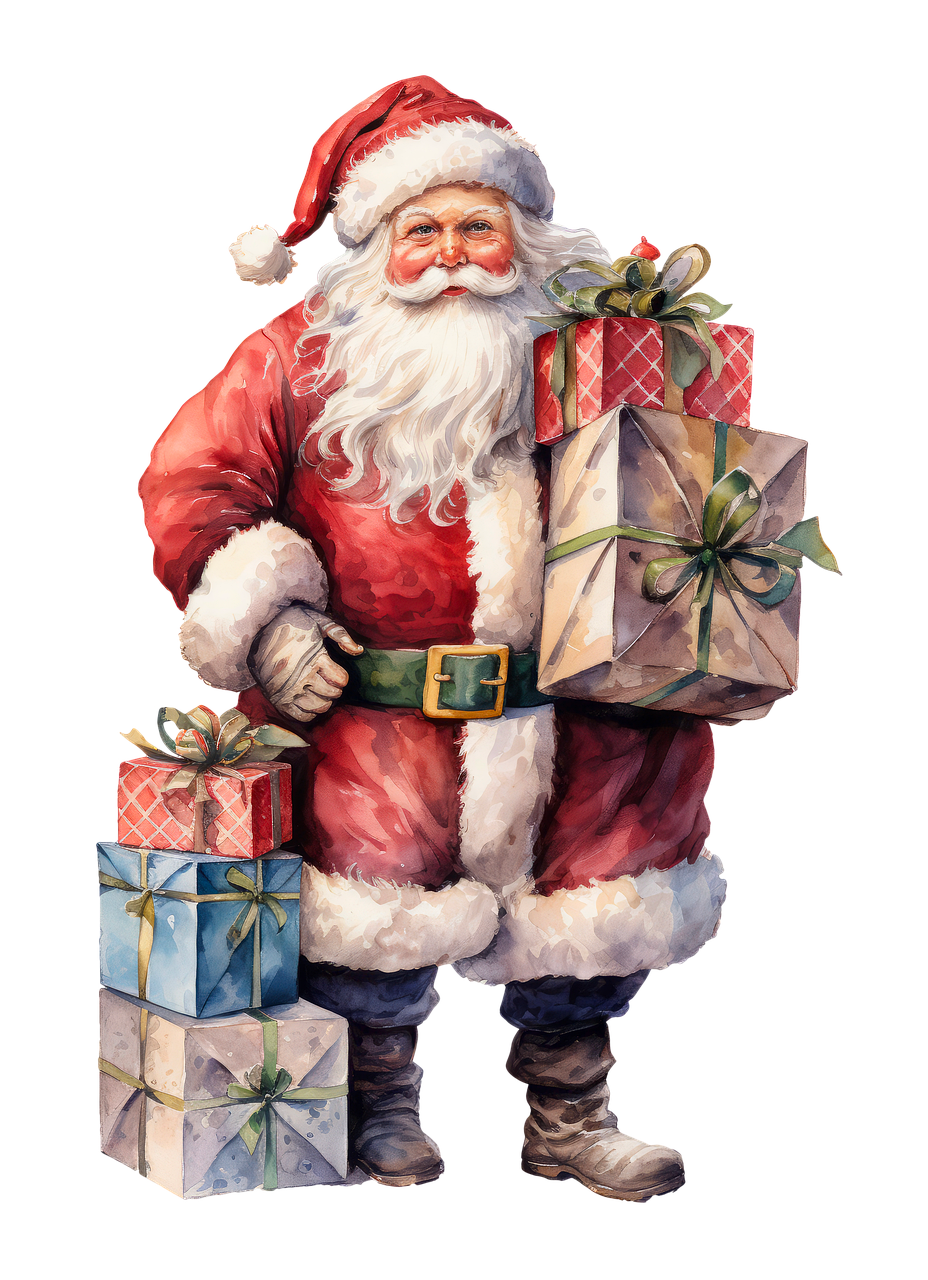
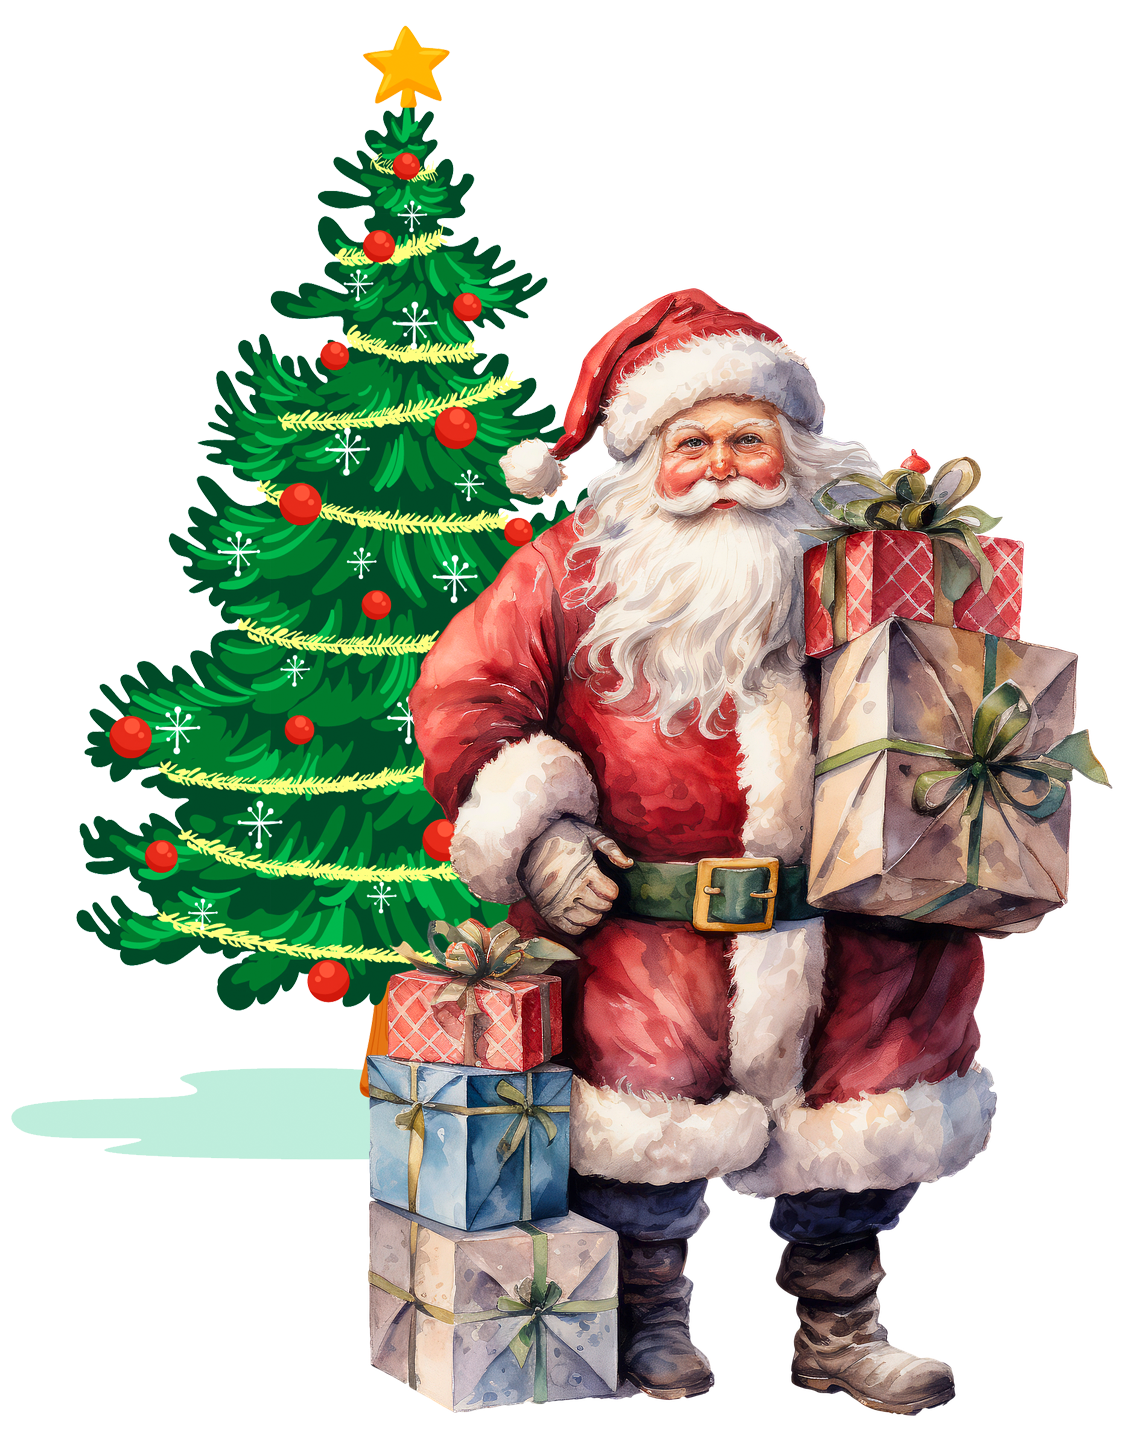
fix: css,santa image,be a santa text,colour-pallet, and scroll bar

diff --git a/index.html b/index.html
@@ -120,18 +120,17 @@
 
                 <!-- Image Column: Santa and Christmas Tree -->
                 <div class="col-md-5 d-none d-md-flex flex-column align-items-center justify-content-center">
-                    <img src="assets/images/tree.png" alt="tree-image" class="img-fluid tree-image">
-                    <img src="assets/images/santa.png" alt="Santa" class="img-fluid">
+                    <!-- <img src="assets/images/tree.png" alt="tree-image" class="img-fluid tree-image"> -->
+                    <img src="assets/images/santa.png" alt="Santa" class="img-fluid santa-image">
                 </div>
 
                 <!-- Content Column: Contains the pages for the app -->
                 <div class="col-12 col-md-7 align-items-center min-vh-100">
                     <div id="landing-page"
                         class="d-flex flex-column justify-content-center align-items-center vertical-center-container">
-                        <h1><i class="fas fa-gift"></i></h1>
-                        <h1>Be a SANTA</h1>
-                        <h5>Want to Gift Your Loved Ones ?</h5>
-                        <button id="start-gifting-button" class="button-21" role="button">Gift</button>
+                        <img src="assets/images/be-a-santa.png" alt="Be-a-Santa" class="img-fluid be-a-santa-image">
+                        <h5>Want to Gift Someone ?</h5>
+                        <button id="start-gifting-button" class="button-21 margin-15" role="button">Gift</button>
                     </div>
 
                     <!-- Page 1 -->
@@ -226,51 +225,49 @@
                     <!-- Page 3 -->
                     <div id="page3"
                         class="d-flex flex-column justify-content-center align-items-center vertical-center-container">
-                        <h2>Thank you for sending us your wonderful gift. Here is what we would like to give you in
-                            return!
-                        </h2>
+                        <h5>Thank you for sending us your wonderful gift.</h5>
+                        <h2>Here is what we would like to give you in RETURN!</h2>
                         <p>Click the elf to unwrap your present</p>
                         <div class="row justify-content-center">
                             <!-- Elf Image -->
                             <div class="col-md-6 col-sm-12 text-center">
                                 <div class="selection-option" data-value="elf">
-                                    <img src="assets/images/elf.png" alt="Elf" class="img-fluid img-option">
+                                    <img src="assets/images/elf.png" alt="Elf" class="img-fluid">
                                 </div>
                             </div>
                             <!-- Gift Image -->
                             <div class="col-md-6 col-sm-12 text-center">
                                 <div class="selection-option" data-value="gift">
-                                    <img src="assets/images/gift.png" alt="Gift" class="img-fluid img-option">
+                                    <img src="assets/images/gift.png" alt="Gift" class="img-fluid">
                                 </div>
                             </div>
                         </div>
                         <!--User Info Form-->
                         <form id="contact-form">
                             <div class="form-group">
-                                <label for="name">Name:</label>
-                                <input type="text" class="form-control" id="name" name="user_name" required>
+                                <label for="name" class="margin-15">Name:</label>
+                                <input type="text" class="form-control margin-15" id="name" name="user_name" required>
                             </div>
                             <div class="form-group">
-                                <label for="email">Email:</label>
-                                <input type="email" class="form-control" id="email" name="user_email" required>
+                                <label for="email" class="margin-15">Email:</label>
+                                <input type="email" class="form-control margin-15" id="email" name="user_email" required>
                             </div>
                             <input type="hidden" name="send_gift">
                             <!-- <input type="hidden" name="received_gift"> -->
                             <input type="hidden" name="continent">
                             <!-- Submit button -->
-                            <input type="submit" value="Send">
+                            <input type="submit" value="Send" class="button-21 margin-15" role="button">
                         </form>
                     </div>
+                    <footer>
+                        <p class="margin-15 white">&copy; 2023 Hackathon - Gift Exchange. All rights reserved. Developed by Team6.</p>
+                    </footer>
                 </div>
             </div>
         </div>
-
     </main>
     <!-- Footer Section -->
-    <footer>
-        Footer Section
-        <p>&copy; 2023 Hackathon - Gift Exchange. All rights reserved. Developed by Team6.</p>
-    </footer>
+  
 
     <!-- Scripts -->
     <script src="https://cdn.jsdelivr.net/npm/bootstrap@5.3.2/dist/js/bootstrap.bundle.min.js"

diff --git a/assets/css/styles.css b/assets/css/styles.css
@@ -15,13 +15,12 @@ body {
     height: 100vh;
     font-family: Arial, sans-serif;
     line-height: 1.6;
-    color: #333;
-    width: 100%;
+    color: #ffffff;
+
 }
 
 /* Header Section */
 header {
-    
     top: 0;
     width: 100%;
     text-align: center;
@@ -41,6 +40,7 @@ footer {
     padding: .5rem;
     word-wrap: break-word;
     white-space: normal;
+    color:#ffffff
 }
 
 /* js controlled styles */
@@ -56,27 +56,30 @@ footer {
 #page2,
 #page3,
 #landing-page {
-    border: 2px solid black;
-    margin: 4rem;
+    border: 2px solid rgb(155, 16, 16);
+    margin-top: 4rem;
     padding: 2rem;
-    border-radius: 15px;
-    box-shadow: 0 4px 8px rgba(0, 0, 0, 0.1);
-    background-color: white;
+    border-radius: 35px;
+    box-shadow: 0 4px 8px rgba(255, 0, 0, 0.324);
+    background-color: rgba(14, 2, 2, 0.3);
+    color:aliceblue;
+    width:90%;
+    height:80%
 }
 
 #page1 h2,
 #page2 h2,
 #page3 h2 {
-    color: #333;
+    color: #ffffff;
     font-size: 24px;
     margin-bottom: 1rem;
 }
 
 .img-option {
-    border: 3px solid black;
+    border: 3px solid rgb(215, 107, 7);
     padding: 10px;
     border-radius: 10px;
-    max-width: 150px; 
+    max-width: 250px; 
     width: 100%; 
     height: auto; 
     margin-bottom: 0.5rem; 
@@ -84,7 +87,7 @@ footer {
 
 #page1 h3 {
     background-color: #4CAF50;
-    color: white;
+    color: rgb(254, 254, 254);
     padding: 0.3em 0.6em;
     margin-top: 0.5em;
     border-radius: 5px;
@@ -118,24 +121,18 @@ footer {
 
 .continent-label {
     font-size: 1rem; 
-    color: #333; 
+    color: rgb(255, 255, 255)fff; 
     margin-top: 0.5rem; 
 }
 
-/* new */
-/* @import url('https://fonts.googleapis.com/css2?family=Chewy&family=Concert+One&display=swap'); */
 
+/* Page 2 */
 
-body {
-    background: radial-gradient(circle, rgb(230, 9, 9) 0%, rgb(31, 2, 2) 100%);
-    width: 100vw;
-    height: 100vh;
-    font-family: Arial, sans-serif;
-    line-height: 1.6;
-    color: #333;
-    margin: 0;
-    padding: 0;
+.form-control{
+    min-width:400px;
 }
+
+/* new */
 
 .main-container {
     color: #fff;
@@ -149,13 +146,21 @@ h1{
     font-family: 'Chewy', arial, sans-serif;
 }
 
+p {
+    color:#ff8800;
+}
+
 /* landing page */
 .santa-image{
     padding-left: 50px;
-    height: 710px;
+    height: 610px;
 }
 
-.cercle {
+.be-a-santa-image{
+    width: 600px;
+}
+
+.circle {
     margin-top: 5rem;
     display: flex;
     align-items: center;
@@ -174,14 +179,14 @@ h1{
     width: 130px;
     align-items: center;
     appearance: none;
-    background-color: #3EB2FD;
-    background-image: linear-gradient(1deg, #ff5e00, #fff702 99%);
+    background-color: #024342;
+    background-image: linear-gradient(1deg, #064f40, #2f8f0c 80%);
     background-size: calc(100% + 20px) calc(100% + 20px);
     border-radius: 100px;
     border-width: 0;
     box-shadow: none;
     box-sizing: border-box;
-    color: #0e064c;
+    color: #ffffff;
     cursor: pointer;
     display: inline-flex;
     font-family: CircularStd, sans-serif;
@@ -201,6 +206,14 @@ h1{
     white-space: nowrap;
 }
 
+.margin-15{
+    margin-top:15px;
+}
+
+.white{
+    color:#dedede;
+}
+
 .button-21:active,
 .button-21:focus {
     outline: none;
@@ -211,7 +224,7 @@ h1{
 }
 
 .button-21:focus:not(:active) {
-    box-shadow: rgba(40, 170, 255, 0.25) 0 0 0 .125em;
+    box-shadow: rgba(148, 57, 4, 0.25) 0 0 0 .125em;
 }
 
 .hidden {
@@ -223,7 +236,7 @@ h1{
 }
 
 .button-21:focus:not(:active) {
-    box-shadow: rgba(40, 170, 255, 0.25) 0 0 0 .125em;
+    box-shadow: rgba(4, 8, 7, 0.25) 0 0 0 .125em;
 }
 
   .intro,
